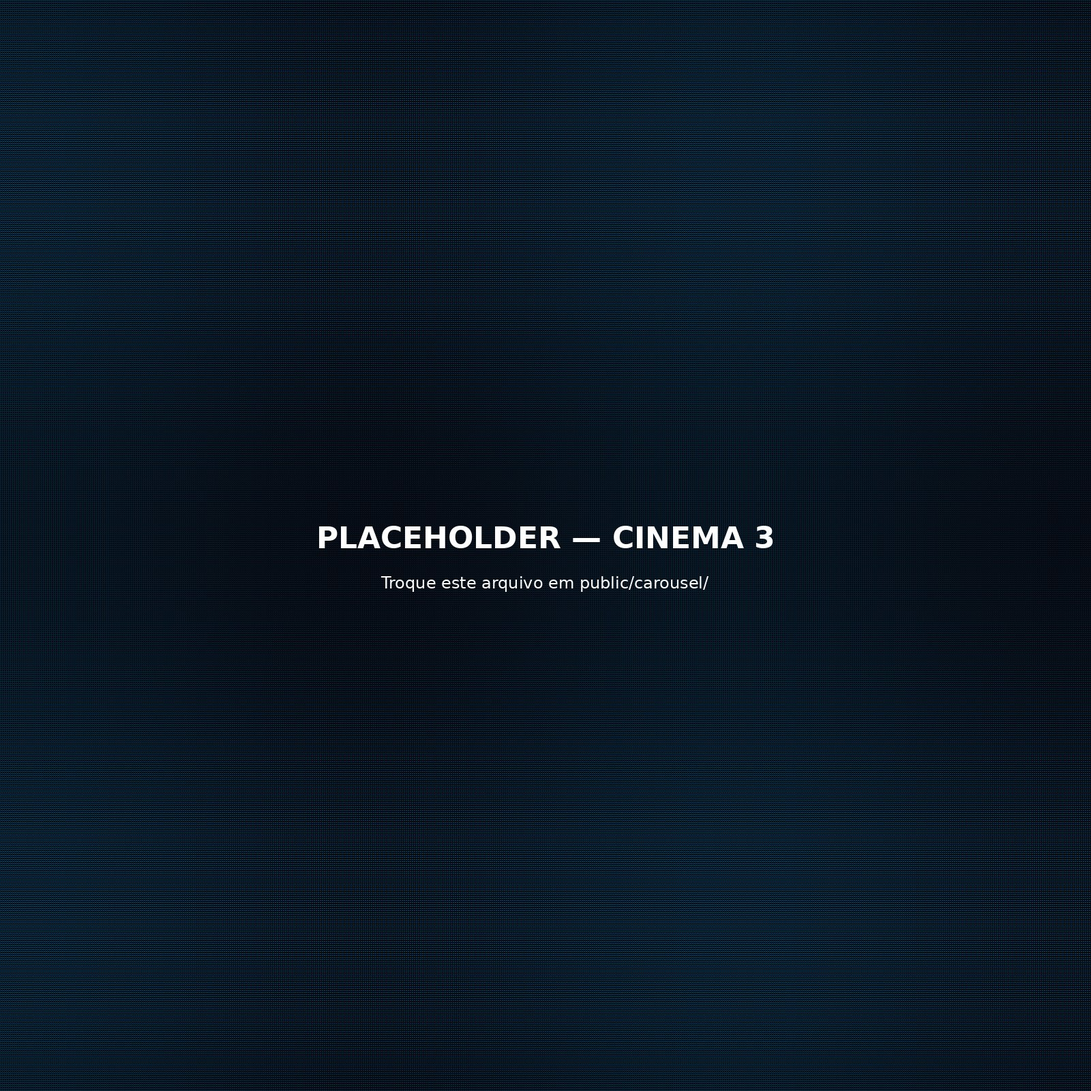
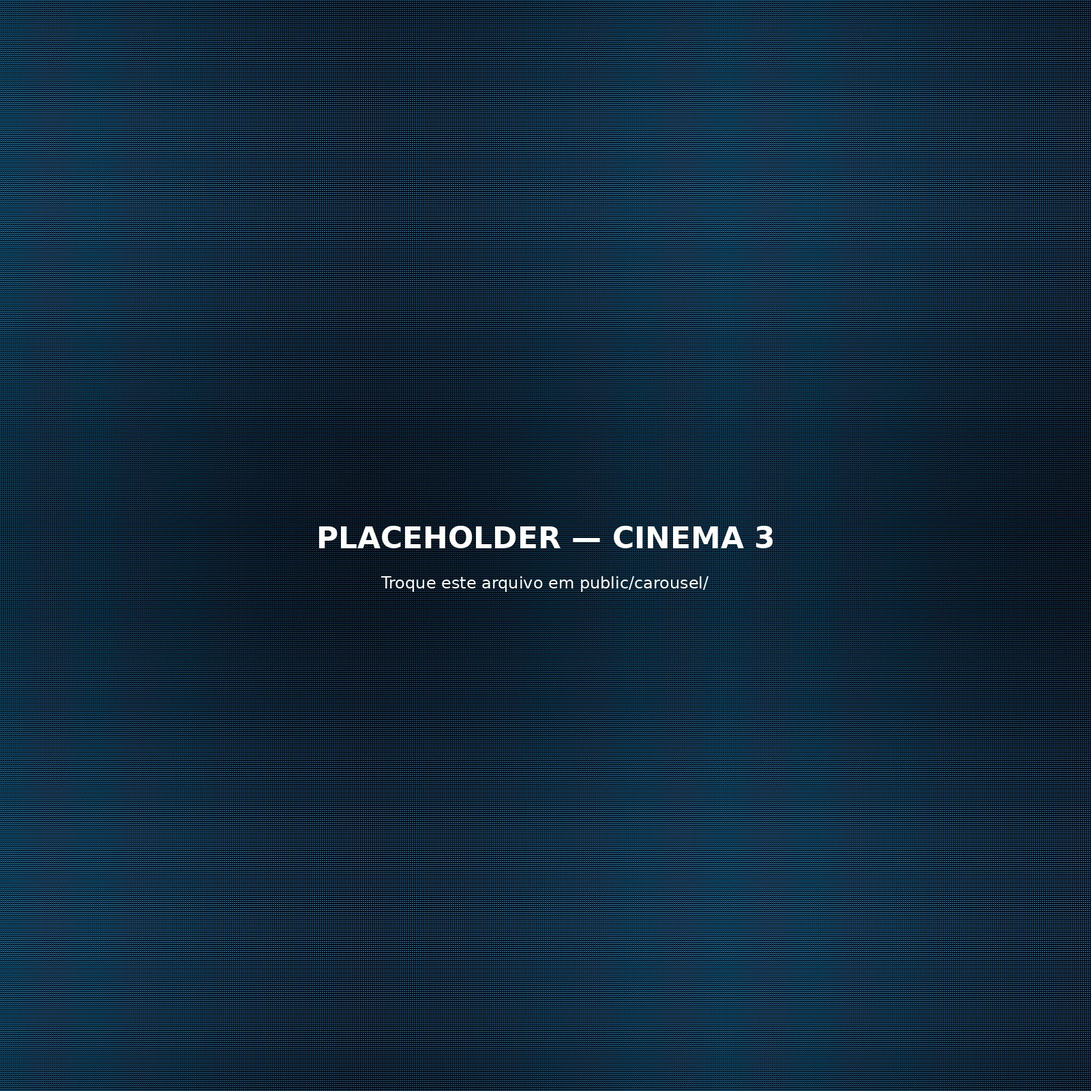
deixa o carrossel bem mais visivel

diff --git a/components/BackgroundCarousel.js b/components/BackgroundCarousel.js
@@ -24,12 +24,12 @@ export default function BackgroundCarousel({ slug, count = 3, intervalMs = 5000 
           className="absolute inset-0 bg-cover bg-center transition-opacity duration-1000"
           style={{
             backgroundImage: `url(/carousel/${slug}-${i + 1}.jpg)`,
-            opacity: i === index ? 0.35 : 0,
+            opacity: i === index ? 0.9 : 0,
           }}
         />
       ))}
-      {/* Just enough darkening to keep text on top readable */}
-      <div className="absolute inset-0 bg-app-bg/35" />
+      {/* Just a light tint so the images don't fight with the text on top */}
+      <div className="absolute inset-0 bg-app-bg/10" />
     </div>
   );
 }
